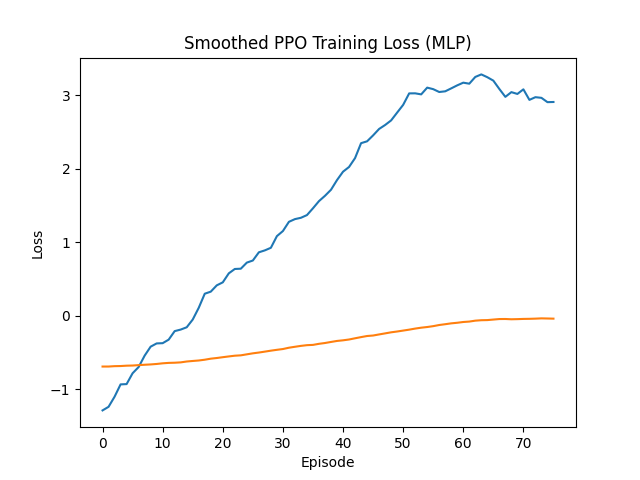
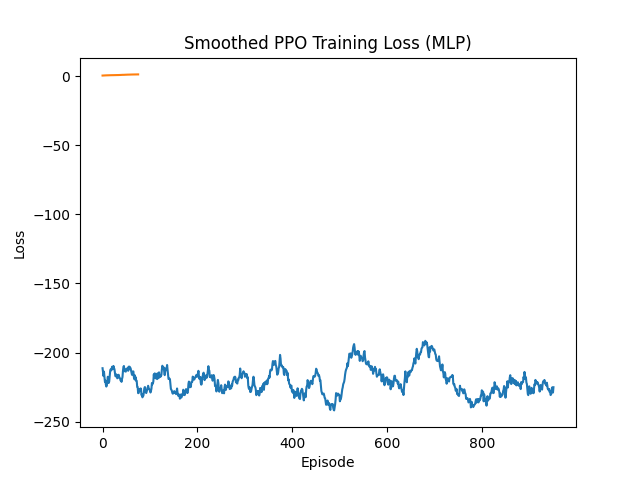
Final results in Results/

diff --git a/full_evaluation.py b/full_evaluation.py
@@ -4,7 +4,7 @@ from collections import defaultdict
 from knowledge_state import KnowledgeState, difficulty_level, question_types
 from MDP import MDP
 from Simulator import Simulator
-from PPOAgent_2 import PPOAgent
+from PPO_Agent_3 import PPOAgent
 from Agent_1 import AdaptiveAgent
 from rule_based_agent import RuleBasedAgent
 
@@ -344,5 +344,5 @@ if __name__ == "__main__":
         prerequisites,
         w1=0.35, w2=0.45, w3=0.2,
         n_students=50,
-        n_questions=1000,
+        n_questions=5000,
     )

diff --git a/MDP.py b/MDP.py
@@ -98,7 +98,7 @@ class MDP:
 
         mastery_penalty = 1.0 if ks.is_mastered(topic) else 0.0
 
-        return (self.w1 * improvement
+        return (self.w1 * (0.6 * score + 0.4 * improvement)
             + self.w2 * coverage_bonus
             + self.w4 * advancement_bonus
             + self.w5 * prereq_bonus
